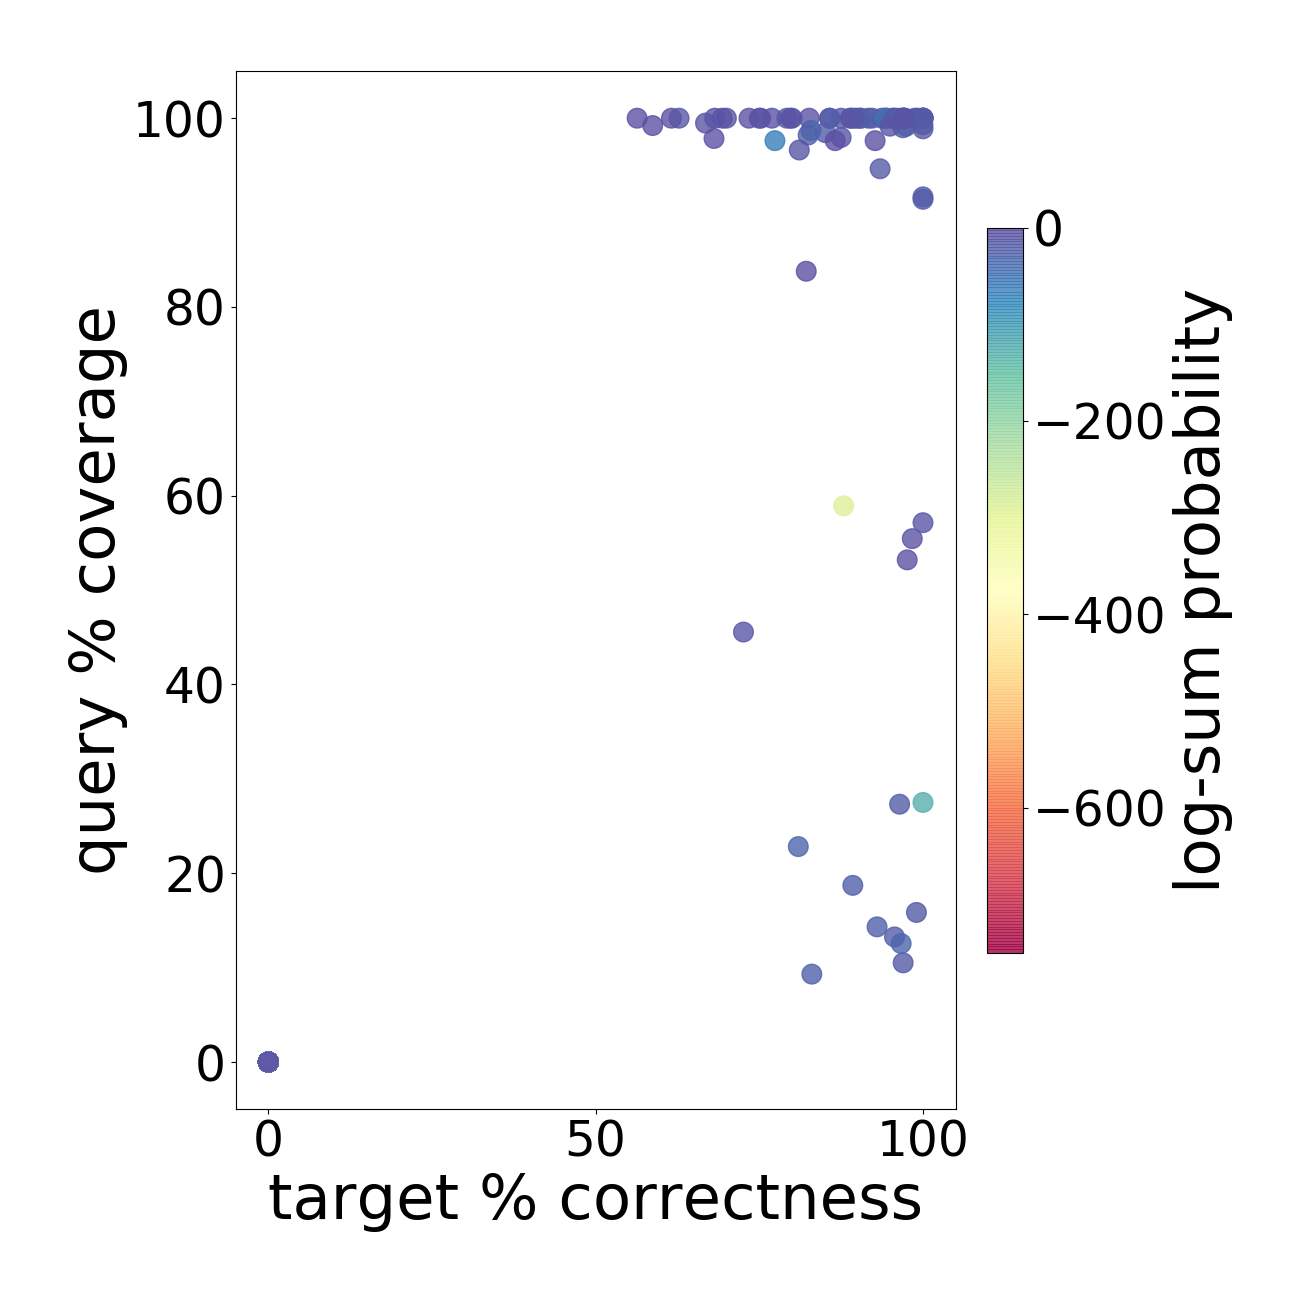
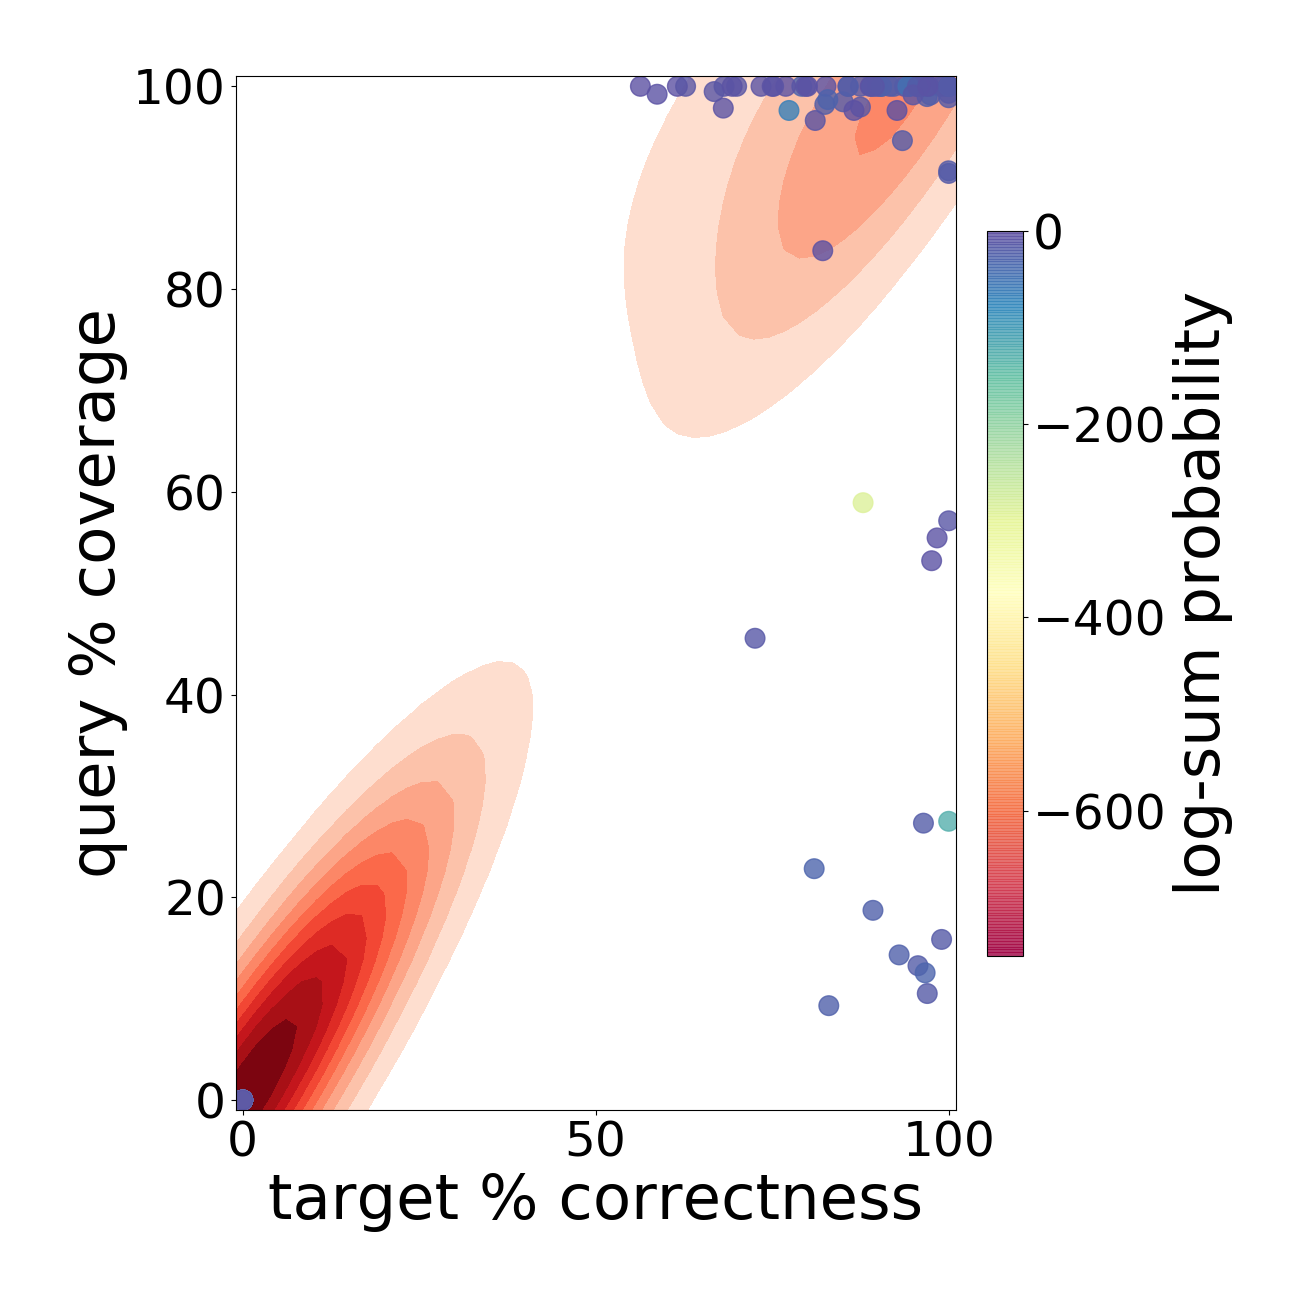
Overlay contour and scatter plots

diff --git a/src/app/helper_scripts/data_crunching/wrangle_csv.py b/src/app/helper_scripts/data_crunching/wrangle_csv.py
@@ -77,36 +77,14 @@ def plot_comparison_scatter(data, file_path):
 
     plt.figure(figsize=figure_dimensions)
 
-    points = plt.scatter(data["target_gap_correctness"] * 100, data["target_correctness"] * 100, s=200)
-
-    plt.xlim((-5, 105))
-    plt.ylim((-5, 105))
-    plt.xlabel('GapPredict % correctness')
-    plt.ylabel('Sealer % correctness')
-
-    plt.tight_layout()
-    fig = plt.savefig(file_path)
-    plt.close(fig)
-
-def plot_comparison_contour(data, file_path):
-    plt.rc('xtick', labelsize=secondary_text_font_size)
-    plt.rc('ytick', labelsize=secondary_text_font_size)
-    font = {
-        'size': primary_text_font_size
-    }
-    plt.rc('font', **font)
-
-    figure_dimensions=(13, 13)
-
-    plt.figure(figsize=figure_dimensions)
-
     x = data["target_gap_correctness"] * 100
     y = data["target_correctness"] * 100
 
-    sns.kdeplot(x, y, cmap="Blues", shade=True, shade_lowest=False)
+    sns.kdeplot(x, y, cmap="Reds", shade=True, shade_lowest=False)
+    points = plt.scatter(x, y, s=200, alpha=0.8)
 
-    plt.xlim((-5, 105))
-    plt.ylim((-5, 105))
+    plt.xlim((-1, 101))
+    plt.ylim((-1, 101))
     plt.xlabel('GapPredict % correctness')
     plt.ylabel('Sealer % correctness')
 
@@ -127,40 +105,19 @@ def plot_scatter(data, file_path):
 
     plt.figure(figsize=figure_dimensions)
 
-    points = plt.scatter(data["target_gap_correctness"]*100, data["query_gap_coverage"]*100, c=data["log-sum-probability"], alpha=0.8, s=200, cmap="Spectral")
+    x = data["target_gap_correctness"]*100
+    y = data["query_gap_coverage"]*100
+
+    sns.kdeplot(x, y, cmap="Reds", shade=True, shade_lowest=False)
+    points = plt.scatter(x, y, c=data["log-sum-probability"], alpha=0.8, s=200, cmap="Spectral")
+
     cbar = plt.colorbar(points, fraction=0.046, pad=0.04)
     cbar.ax.tick_params(labelsize=cbar_text_font_size)
     cbar.set_label("log-sum probability")
 
     plt.clim(0, -750)
-    plt.xlim((-5, 105))
-    plt.ylim((-5, 105))
-    plt.xlabel('target % correctness')
-    plt.ylabel('query % coverage')
-
-    plt.tight_layout()
-    fig = plt.savefig(file_path)
-    plt.close(fig)
-
-def plot_contour(data, file_path):
-    plt.rc('xtick', labelsize=secondary_text_font_size)
-    plt.rc('ytick', labelsize=secondary_text_font_size)
-    font = {
-        'size': primary_text_font_size
-    }
-    plt.rc('font', **font)
-
-    figure_dimensions=(13, 13)
-
-    plt.figure(figsize=figure_dimensions)
-
-    x = data["target_gap_correctness"]*100
-    y = data["query_gap_coverage"]*100
-
-    sns.kdeplot(x, y, cmap="Blues", shade=True, shade_lowest=False)
-
-    plt.xlim((-5, 105))
-    plt.ylim((-5, 105))
+    plt.xlim((-1, 101))
+    plt.ylim((-1, 101))
     plt.xlabel('target % correctness')
     plt.ylabel('query % coverage')
 
@@ -227,11 +184,6 @@ def compute_metrics(gap_left, gap_right, left_subflank, right_subflank, id):
     plot_scatter(unfixed_pass, out_path + "unfixed_pass.png")
     plot_scatter(unfixed_fail, out_path + "unfixed_fail.png")
 
-    plot_contour(fixed_pass, out_path + "fixed_pass_contour.png")
-    plot_contour(fixed_fail, out_path + "fixed_fail_contour.png")
-    plot_contour(unfixed_pass, out_path + "unfixed_pass_contour.png")
-    plot_contour(unfixed_fail, out_path + "unfixed_fail_contour.png")
-
     sealer_df = pd.read_csv(base_path + "sealer_merged.csv", index_col=0)
     transform_sealer_dataframe(sealer_df)
     fixed = full_dataframe[(full_dataframe.is_fixed == 1)]
@@ -246,8 +198,6 @@ def compute_metrics(gap_left, gap_right, left_subflank, right_subflank, id):
 
     plot_comparison_scatter(fixed_sealer_merged, out_path + "fixed_sealer_compare.png")
     plot_comparison_scatter(unfixed_sealer_merged, out_path + "unfixed_sealer_compare.png")
-    plot_comparison_contour(fixed_sealer_merged, out_path + "fixed_sealer_compare_contour.png")
-    plot_comparison_contour(unfixed_sealer_merged, out_path + "unfixed_sealer_compare_contour.png")
 
 print("Beam Search")
 compute_metrics("gap_left_prediction_data.csv", "gap_right_prediction_data.csv", "left_subflank_right_prediction_data.csv", "right_subflank_left_prediction_data.csv", "beam_search")
